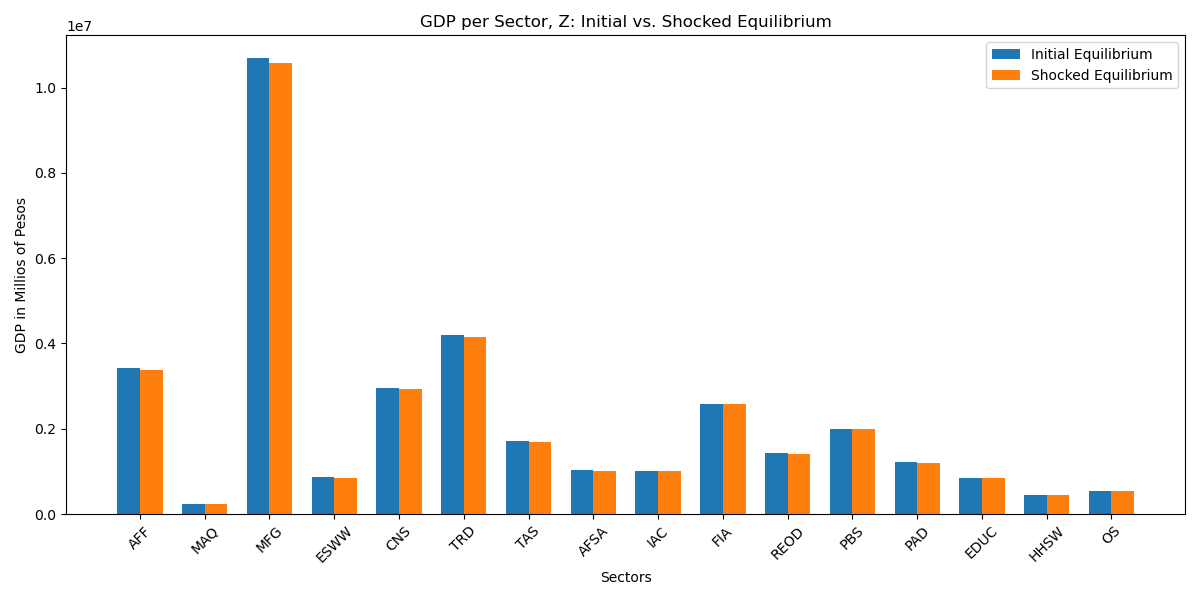
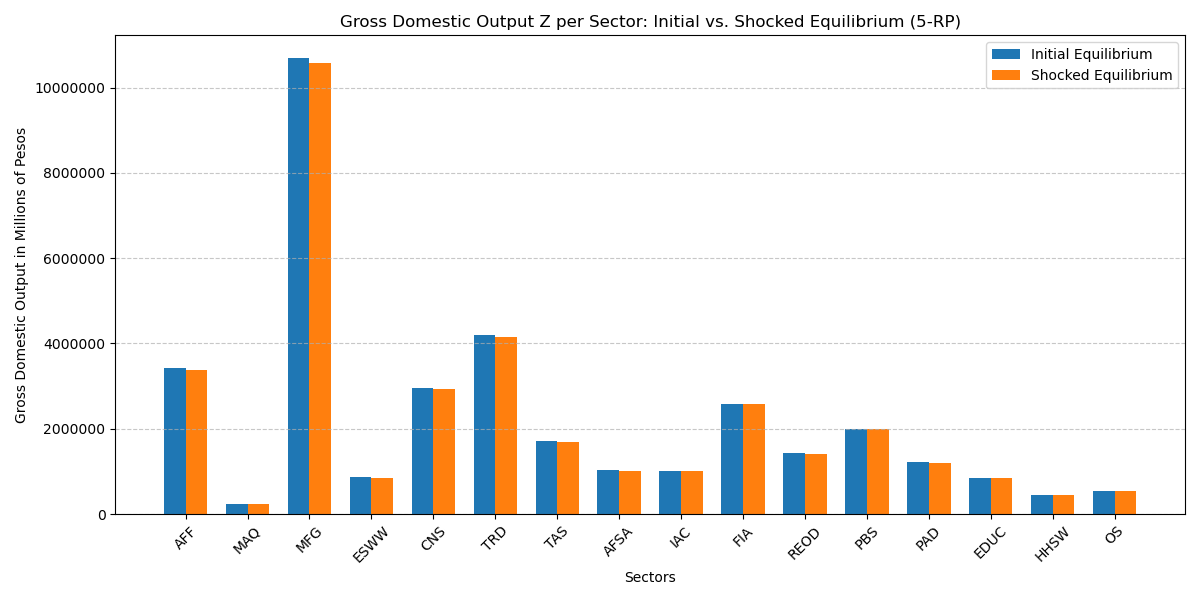
add: improve charts

diff --git a/visualize_data.py b/visualize_data.py
@@ -1,5 +1,6 @@
 import pandas as pd
 import matplotlib.pyplot as plt
+from matplotlib.ticker import ScalarFormatter
 
 def export_pyomo_variables_to_excel(model, variables_names, filename):
     with pd.ExcelWriter(filename, engine='openpyxl') as writer:
@@ -68,21 +69,24 @@ def create_charts(file_name, var_name, name, two_vars=False):
     if two_vars: # For compare two variables like for Q
         ax.bar([p - width/2 for p in x_pos], y1, width, label='Initial Equilibrium', )
         ax.bar([p + width/2 for p in x_pos], y2, width, label='Shocked Equilibrium', )
-        ax.set_ylabel("GDP in Millios of Pesos")
+        ax.set_ylabel("Gross Domestic Output in Millions of Pesos")
         ax.legend()
 
     else:       # To see the change in price
         ax.bar(x_pos, y3, width, label='Change in Price (%)')
         ax.axhline(0, color='black', linewidth=1)
         ax.set_ylabel("Change in Price (%)")
+        
 
-
+    ax.set_title(name)
     ax.set_xlabel("Sectors")
-
-    ax.set_title(f"{name}: Initial vs. Shocked Equilibrium")
     ax.set_xticks(list(x_pos))
     ax.set_xticklabels(x, rotation=45)
 
-    
+    ax.yaxis.set_major_formatter(ScalarFormatter(useMathText=False))
+    ax.ticklabel_format(style='plain', axis='y')  
+    ax.get_yaxis().get_offset_text().set_visible(False) 
+    ax.grid(axis='y', linestyle='--', alpha=0.7)
+
     plt.tight_layout()
     plt.show()

diff --git a/Ipopt_runner.py b/Ipopt_runner.py
@@ -339,11 +339,12 @@ def runner(return_period: int, affected_regions: list):
     visualize_data.shocked_variables_to_excel(model, model_variables, "cge_variables.xlsx", "shocked_variables.xlsx")
     
     # Generate charts
-    visualize_data.create_charts("shocked_variables.xlsx", "Z", "GDP per Sector, Z", two_vars=True)
-    visualize_data.create_charts("shocked_variables.xlsx", "pq", "Final Good Price, pq")
+    visualize_data.create_charts("shocked_variables.xlsx", "Z", f"Gross Domestic Output Z per Sector: Initial vs. Shocked Equilibrium ({return_period}-RP)", two_vars=True)
+    visualize_data.create_charts("shocked_variables.xlsx", "pq", f"Change in Price of Domestically Consumed Final Goods pq ({return_period}-RP)")
 
-return_period = 20
-affected_regions = ["CAR", "II", "V", "VIII", "X"]
+return_period = 5
+affected_regions = ["V", "VI", "VIII", "X", "XIII"]
+                    #  ["CAR", "II", "V", "VIII", "X"]
                     # "NCR", 
                     # "CAR", 
                     # "I", 
